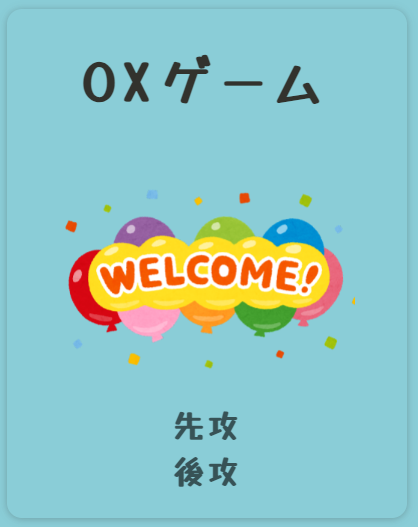
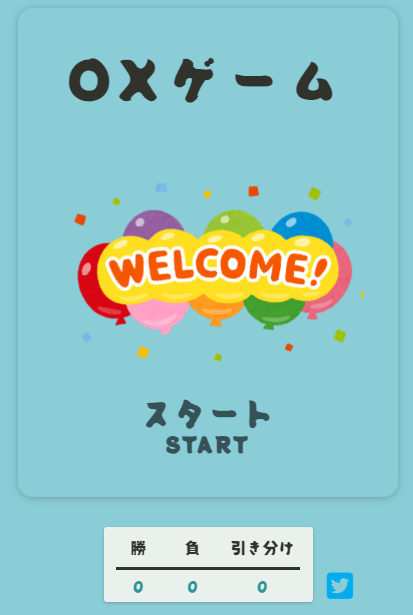
README

diff --git a/main.js b/main.js
@@ -39,7 +39,7 @@ function updateScore() {
   // 客製化推特訊息
   twitterBtn.href = `https://twitter.com/intent/tweet?text=OXゲームで${pScore}回勝った、${cScore}回負けた、${tScore}回引き分け...${
     pScore > cScore ? "天才だ❤" : "だめだ😭"
-  }Link:'https://tictactoe-tess.netlify.app/'`;
+  }@tess_taiwan,Link:'https://tictactoe-tess.netlify.app/'`;
 }
 // DRAW OOXX
 function draw(position, currentStatus) {
@@ -158,6 +158,7 @@ function isWin(positionArr) {
 function whoWin(playerPosition, computerPosition) {
   if (!noEmptyToDraw() && !isWin(playerPosition) && !isWin(computerPosition))
     return false;
+  currentStatus = "over";
   if (noEmptyToDraw()) return "tie";
   if (isWin(playerPosition)) return "win";
   if (isWin(computerPosition)) return "lose";
@@ -183,7 +184,6 @@ function winMessage(msg) {
     message.innerText = "負けた";
     cScore++;
   }
-  currentStatus = "over";
   // 畫連線CSS
   if (winArray.length) {
     document
@@ -244,7 +244,7 @@ chooseFirst.addEventListener("click", function whoFirst(e) {
 
 // GAME EVENT LISTENER
 playground.addEventListener("click", function clickTable(event) {
-  if (event.target.tagName !== "BUTTON") return;
+  if (event.target.tagName !== "BUTTON" || currentStatus === "over") return;
   // 定義區域變數
   let position = +event.target.dataset.index;
   if ([...circlePosition, ...crossPosition].includes(position)) return;

diff --git a/README.md b/README.md
@@ -1,82 +1,71 @@
 # 井字遊戲 Tic Tac Toe
 
-能夠選擇先攻或後攻與電腦對戰。在遊戲結束時會出現勝利的連線及遊戲結束的宣告。
-之後可以選擇"AGAIN"繼續遊戲。
+能夠選擇先攻或後攻與電腦對戰。在遊戲結束時會出現勝利的連線及遊戲結束的宣告。之後可以選擇"AGAIN"繼續遊戲。
+下方有統計目前對戰分數，及將對戰結果發表上推特的按鈕。
 
 ![gameStart](./img/screen_start.png)
 
 ### [DEMO 連結](https://tictactoe-tess.netlify.app/)
 
-###### 畫面使用日文呈現，因為看起來比較可愛
+###### 畫面使用日文&英文呈現
 
 ## 設計過程
 
 ### 井字畫布如何呈現
 
-教案使用 table 的方式搭配偽元素做到能在點擊後畫出 OX
-
-```
-1. Grid & Flex 應該會更有彈性。
-2. 在長寬高都會寫死的狀況下，使用Flex可以快速輕易的把9個<div>元件排列成九宮格，因此選擇Flex做排版。
-
-```
+table、flex、grid 都能達到一樣的效果，在此選擇 Grid 的修改彈性較佳
 
 ### 如何判斷輸贏
 
-```
-1. 井字遊戲的勝利條件總共只有8組，將8個組合全部記錄在Array裡。
-2. 創造兩個Array用於紀錄兩位對戰者所下的位置。
-3. 使用for of迴圈，每當有新的位置被推入對戰者的Array時則利用下方式驗證是否達到勝利條件
-arr.every((num) => positionArr.includes(num))
-```
+1. 井字遊戲的勝利條件總共只有 8 組，將 8 個組合全部記錄在 Array 裡。
+2. 使用兩個 Array 紀錄兩位對戰者所下的位置。
+3. 使用 for of 迴圈，每當有新的位置被推入 Array 時就驗證是否包含勝利條件的 Array。
+4. 同時使用 Array.entries()紀錄勝利 array，並呼叫相對應的勝利連線 CSS 效果。
 
 ### 電腦如何對戰
 
 用人的思考邏輯去想，下在哪裡會贏。分析的越細，電腦就會越強。
 一開始覺得只要把空格找出來，用隨機的方式讓電腦選位置就好，但這樣太弱了。
 
-```
 1. 不下這個位置就會輸。
 2. 下了這個位置就會贏。
 3. 最有利的中間位置。
 4. 隨機。
 
-```
-
 用以上四個邏輯順序來安排電腦要下的位置。因此在開局時，若使用者選擇後下，則電腦一定會先搶正中間的位置。
 
 ### 遊戲結束的連線
 
-如何找到贏家的三個位置?
+預先寫好 8 條勝利連線的 HTML element，依照剛剛的 array.entries()在對應的 element 加上效果的 classname
 
-```
-做法: 設定一個全域變數winArray，每次在判斷是否勝利時，都把勝利的Array存進全域變數中。
-當遊戲結束時，變數裡的Array就是勝利的Array。
+### 連線的劃線效果的困難點
 
-```
+除了顯示出連線之外，還想做到從左畫到右的效果。
 
-如何畫線?
-
-```
-第一個嘗試使用一個div來設定線的樣式，並透過添加1~8個不同的class。
-搭配postiton: absolute的位置調整來做到8條線的不同效果
-```
-
-除了顯示出線之外，還想做到從左畫到右的效果
-
-```
-使用transition搭配transform: scale的方式能做到。
-但因為所有的class都作用在一個div上，造成position互相影響混亂的情況。
-```
-
-改成使用 8 個 div 來做
-
-```
-將需要add & remove的style寫在class裡，不會更動的樣式寫在[data]裡面，
-就可以在後續做到用forEach一次清除掉所有的class。
-```
+1. 使用 transition 搭配 transform: scale。
+2. 從 scaleX(0)改變成 scaleX(1)。
+3. 對角線因為同時有 scale & rotate 的效果，因此無法避免連線在 scale 的同時有旋轉的效果產生。
 
 ![gameOver](./img/screen_game.png)
+
+### CSS transition 效果結束後再呼叫遊戲結束畫面
+
+設計上需要如果有贏家產生，則會有 1 秒的連線動畫，若是平手則會直接呼叫遊戲結束畫面。
+可以簡單使用 setTimeout 計算適合呼叫結束畫面的時間，但這邊使用'addEventListener("transitionend")'的方式，在效果結束後自動呼叫下個畫面。
+並在點擊"AGAIN"之後清除掉 addEventListener。
+
+### iphone 上 CSS 跑版
+
+當使用 Andriod 手機、Windows 電腦、Mac 電腦及 devTools 時，皆不會有任何 CSS 的異常。但多數 iphone 使用者回饋，在 iphone 上不論使用 Safari & Chrome 都會有按鈕大小異常的現象。
+
+![iphone](./img/iphone_screen.jpg)
+
+iOS 系統在 iphone 有一些無法預料的預設值，只能慢慢的 try & error，找出影響排版的 CSS 屬性。
+問題從大的 playground board 限縮到小的 button，發現 font-size 是造成跑版的關鍵。將 font-size 屬性從 button 上移動到 button:after &button:before 即可修正問題。
+
+### Twitter 分享按鈕
+
+推特提供了多種與推特連動的方法，本次只需要將遊戲結果讓使用者發上推特，甚至不需要用到 API，使用官方推出的特定連結，依照固定格式即可輕鬆連接。
 
 ## 使用工具
 
